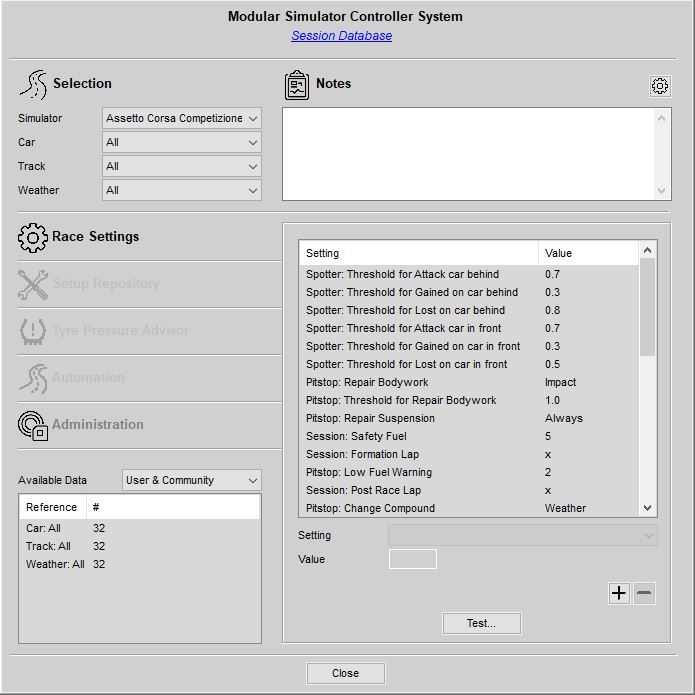
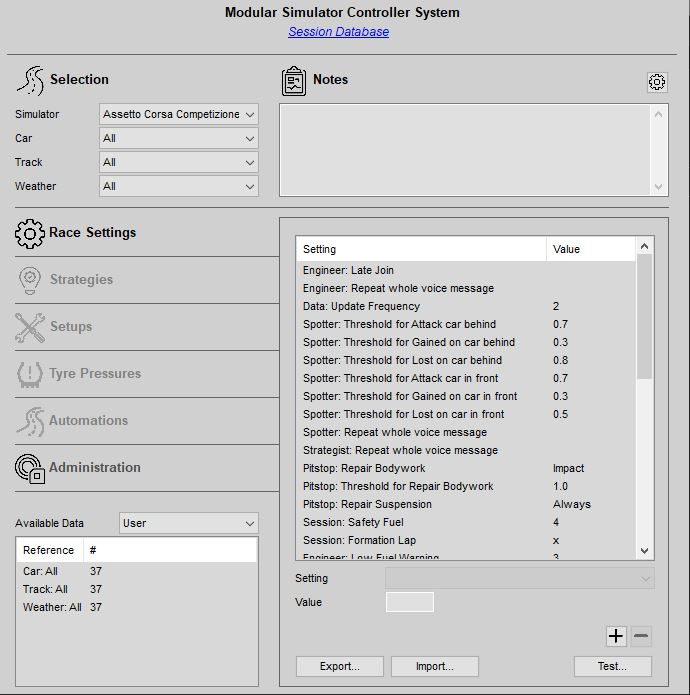
Settings Ex-/Import in "Session Database" Part 3

Changed region(s): [[0.0, 0.0, 1.0, 1.0], [0.7609, 0.6647, 0.8826, 0.7554], [0.0, 0.0, 0.0304, 0.0302]]

diff --git a/Docs/Virtual Race Engineer.md b/Docs/Virtual Race Engineer.md
@@ -599,6 +599,14 @@ The default values for all these settings may not only be used to initialize the
 
 A detailed overview and description for all available settings and their usage can be found [here](https://github.com/SeriousOldMan/Simulator-Controller/wiki/Race-Settings).
 
+##### Exporting and importing settings
+
+You can use the "Export..." button below the settings list to export a set of settings to your hard drive, for example, to share them with your team mates. Normally, only the current list of visible settings will be exported, but if you hold down the Control key, all settings from your database will be exported.
+
+When clicking on "Import...", you can select a folder with recently exported settings. A window will open up, which let you choose the settings you want to import into your database.
+
+![](https://github.com/SeriousOldMan/Simulator-Controller/blob/main/Docs/Images/Session%20Database%2017.jpg)
+
 #### Strategies
 
 This tab shows you a list of race stratagies, which are stored in the database. Note: Race strategies can be created and stored in the session database using the "Strategy Workbench".
